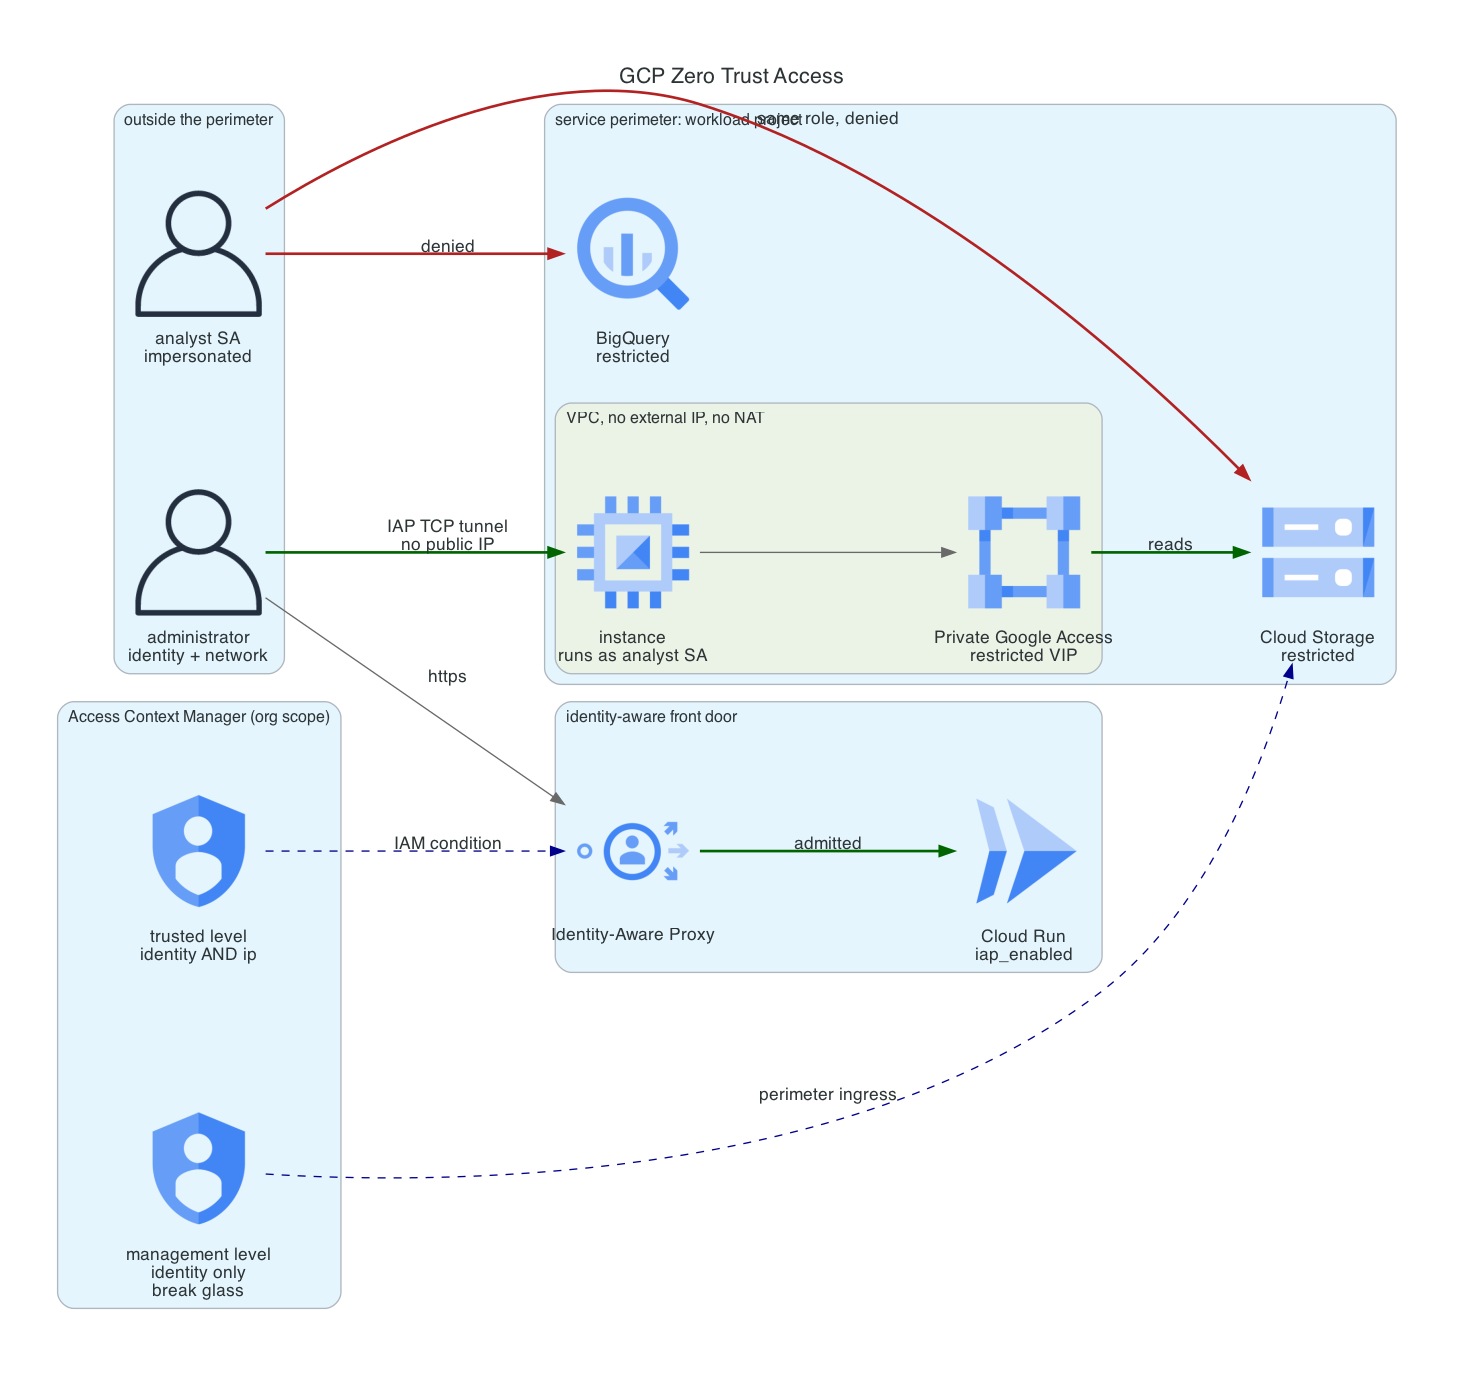
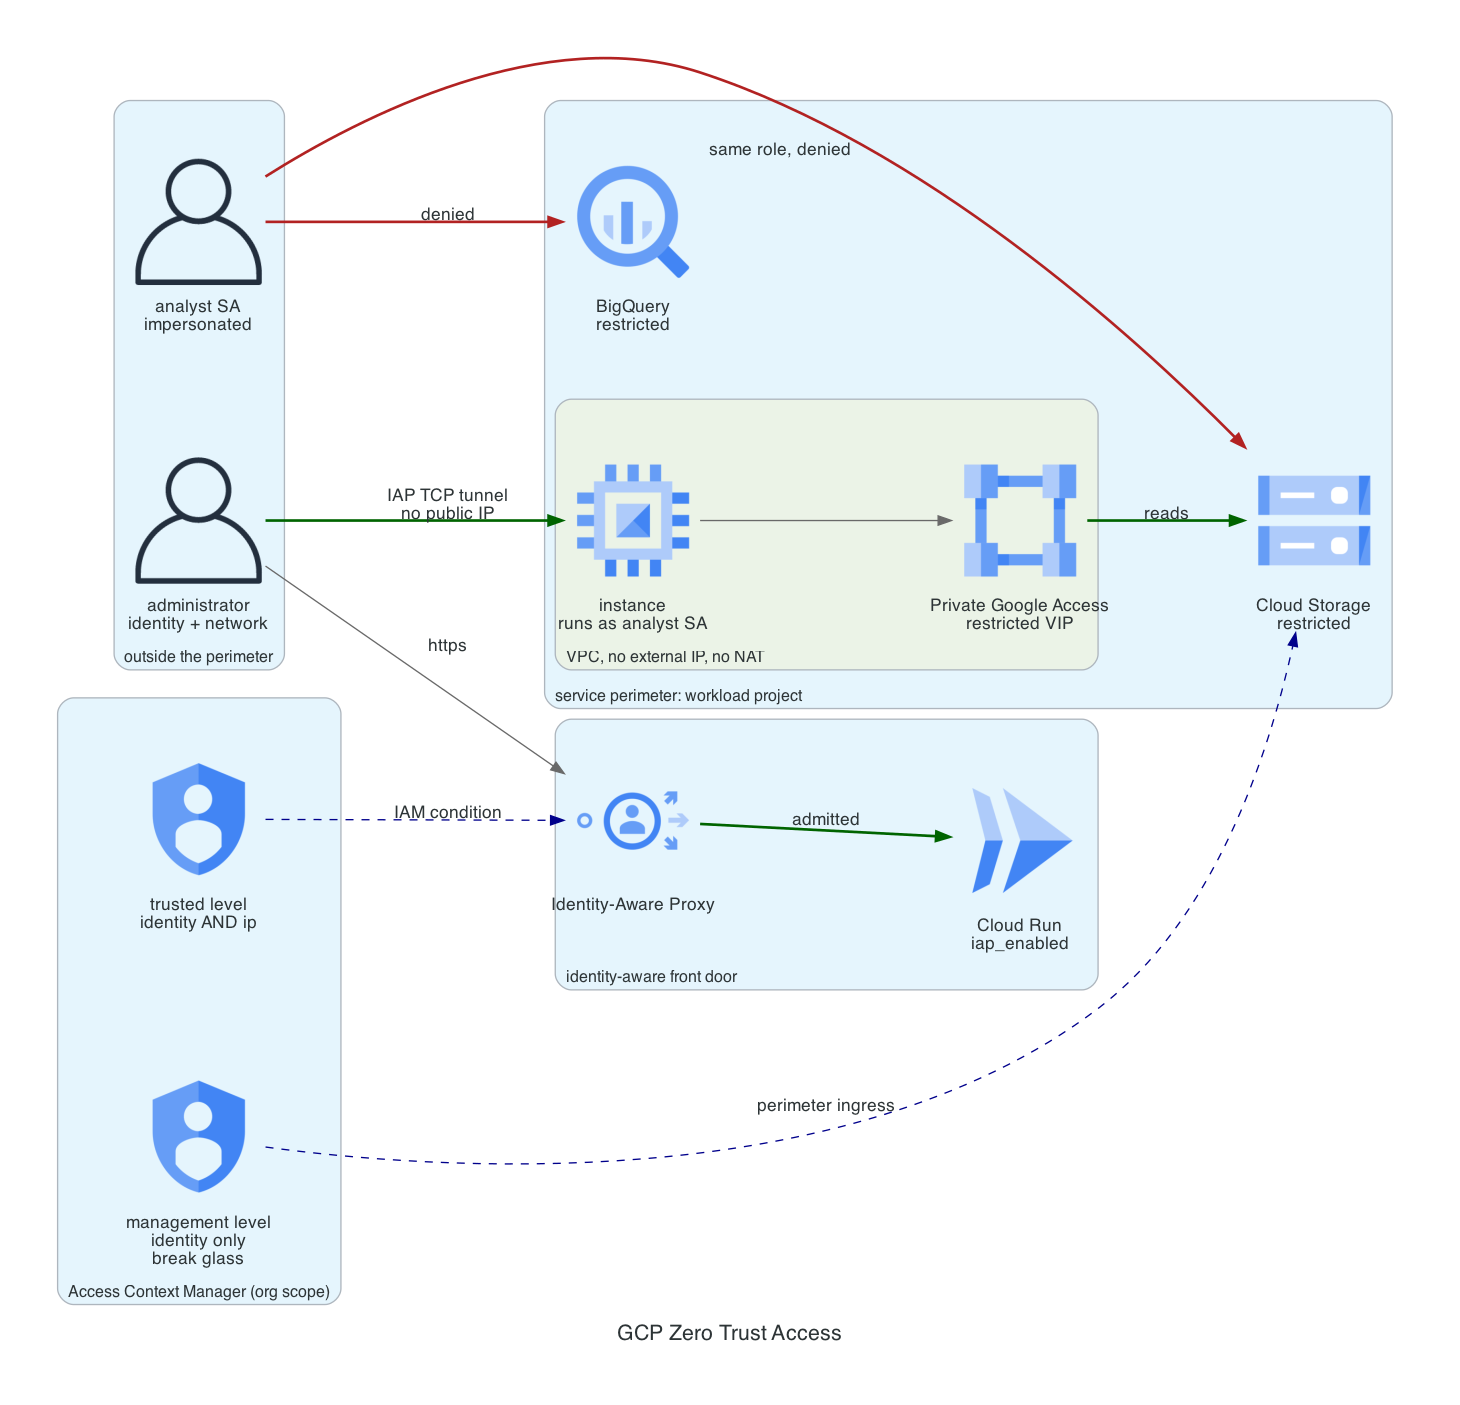
Diagram: stop the denial label overlapping the perimeter title; README caption

diff --git a/diagram.py b/diagram.py
@@ -26,7 +26,7 @@ from diagrams.onprem.client import User
 
 GRAPH_ATTR = {
     "fontsize": "16",
-    "labelloc": "t",
+    "labelloc": "b",
     "pad": "0.6",
     "splines": "spline",
     "nodesep": "0.8",
@@ -82,7 +82,7 @@ with Diagram(
     # The comparison the whole build exists to make. Same identity, same role,
     # same object, opposite answers.
     vpc >> Edge(label="reads", **ALLOW) >> bucket
-    attacker >> Edge(label="same role, denied", **DENY) >> bucket
+    attacker >> Edge(xlabel="same role, denied", **DENY) >> bucket
     attacker >> Edge(label="denied", **DENY) >> dataset
 
     # The escape hatch, drawn because leaving it implicit would misrepresent the

diff --git a/README.md b/README.md
@@ -6,6 +6,13 @@ The demo is that comparison, plus the front door it sits behind: an application 
 
 ![Architecture](docs/architecture.png)
 
+Top: the same service account, holding the same role, reads the bucket from
+the instance inside the perimeter and is refused from outside it. Middle: the
+administrator reaches the instance only through an IAP TCP tunnel, and the
+Cloud Run app only through IAP, gated by an access level that requires both
+identity and network. Bottom: the break-glass access level admits on identity
+alone, through a perimeter ingress rule.
+
 **Cost:** under $1 for a full deploy, demo, and destroy cycle. Standing cost if left up is about $6 a month, nearly all of it one e2-micro instance. Access Context Manager, VPC Service Controls, and IAP are free. **Teardown:** three things live at the organization, not in the project, and outlive it. All handled by `scripts/destroy.sh`, all documented below.
 
 ## The problem
